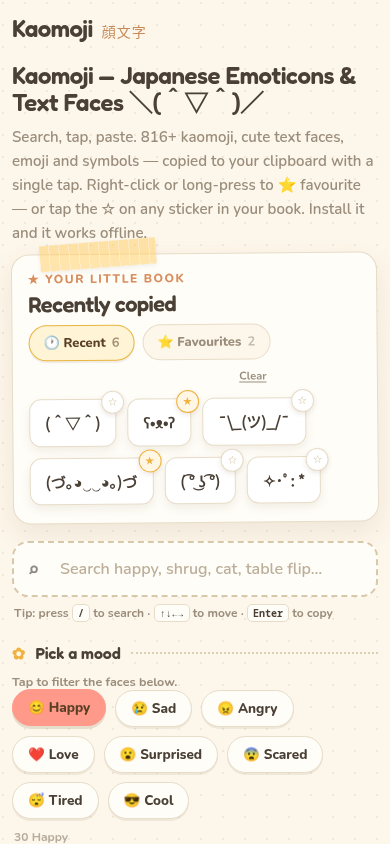
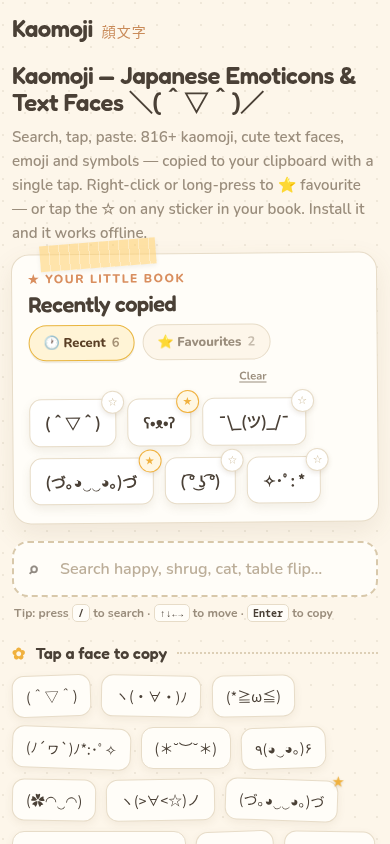
Rework category vs tag IA: categories = grouped browse spine, tags = find layer (#9)
Fundamental fix (research-backed: IA taxonomy-vs-folksonomy; Found Tools / kaomoji.life
patterns) for the confusion between the in-picker category pills and the link clouds.

Roles, now distinct and consistent:
- Categories = the browse spine. Presented as grouped real links — Moods / Things &
  actions / Symbols & emoji (new src/data/categoryGroups.js) — so the 23 read as a map,
  not a blob. Every click changes the URL + page title (fixes the "moods don't navigate"
  complaint) and is crawlable.
- Tags = the find/long-tail layer: search + a "Popular searches" strip + the /t/ pages.
  Not a parallel browse cloud.

Picker is now find + copy + your book only — the category pill row is removed entirely.
That kills the irrelevant 23-pill block that dominated tag/category pages (e.g. /t/bear/),
which now show their faces immediately. Tag pages gain a "Found in categories" cross-link
(tag → the categories its faces live in); "Related" → "Related tags".

Home: book → search → a labelled sample grid → the 3 grouped category sections →
Popular searches. Removed the duplicate "Pick a mood" + "Browse all categories" clouds.

Regenerated the PWA install screenshots. 111 pages build green; JSON-LD, search, the
kaomoji-*-v2 localStorage model and the data layer unchanged.

Changed region(s): [[0.0308, 0.7701, 0.8308, 1.0], [0.8615, 0.9242, 0.8923, 0.955]]

diff --git a/src/components/Picker.jsx b/src/components/Picker.jsx
@@ -6,9 +6,6 @@ const STORAGE_FAVS = "kaomoji-favourites-v2";
 const STORAGE_RECENT = "kaomoji-recent-v2";
 const RECENT_CAP = 30;
 
-// Category sticker colors — rotate by index for active pill fills (matches --c0..--c6).
-const A_COLORS = ["#ff9a8b", "#ffcf6b", "#97d8b0", "#9cc4f0", "#c4a9e8", "#ffb3c8", "#f0b98a"];
-const colorFor = (i) => A_COLORS[i % A_COLORS.length];
 // Deterministic per-cell tilt in [-2°, +2°] — makes the grid feel hand-placed.
 const tilt = (i) => ((i * 53) % 5) - 2;
 
@@ -188,34 +185,20 @@ export default function Picker(props) {
     return getFuse().search(q).slice(0, 120).map((r) => valueToItem.get(r.item.v)).filter(Boolean);
   });
 
-  // Display list: always an array of item-like objects with a `value`.
+  // Display list: search results, else this page's category/tag faces. (The picker no
+  // longer switches categories itself — that's done via real links/pages now.)
   const display = createMemo(() => {
     const sr = searchResults();
     if (sr) return sr;
     const v = view();
-    if (v.kind === "favourites") return favourites().map((value) => valueToItem.get(value) || { value });
-    if (v.kind === "recent") return recent().map((value) => valueToItem.get(value) || { value });
     if (v.kind === "tag") return getTag(v.id)?.items || [];
     return getItemsByCategory(v.id);
   });
 
-  const pick = (kind, id, label) => {
-    setSearch("");
-    setView({ kind, id, label });
-  };
-
   const statusText = createMemo(() => {
     const sr = searchResults();
     if (sr) return `${sr.length} result${sr.length === 1 ? "" : "s"} for “${search().trim()}”`;
-    const v = view();
-    if (v.kind === "favourites") return `${favourites().length} saved`;
-    if (v.kind === "recent") return `${recent().length} recent`;
-    return `${display().length} ${v.label}`;
-  });
-
-  const activeKey = createMemo(() => {
-    const v = view();
-    return `${v.kind}:${v.id}`;
+    return `${display().length} ${view().label}`;
   });
 
   // The hero "book" tray contents follow the hero tab (independent of the grid view).
@@ -241,10 +224,6 @@ export default function Picker(props) {
   const removeRecent = (value) => {
     setRecent((r) => { const next = r.filter((x) => x !== value); writeLS(STORAGE_RECENT, next); return next; });
   };
-
-  // Pills: a curated mood subset when moodIds is given (home), else all categories.
-  const pillCats = () =>
-    props.moodIds ? props.moodIds.map((id) => categories.find((c) => c.id === id)).filter(Boolean) : categories;
 
   return (
     <div class="picker">
@@ -370,55 +349,14 @@ export default function Picker(props) {
       </div>
       <p class="picker-hint">Tip: press <kbd>/</kbd> to search · <kbd>↑↓←→</kbd> to move · <kbd>Enter</kbd> to copy</p>
 
-      <Show when={!search()}>
-        <Show when={props.showBook}>
-          <div class="a-seclabel"><span class="star">✿</span> Pick a mood</div>
-          <p class="picker-subhint">Tap to filter the faces below.</p>
-        </Show>
-        <div class="a-pills" role="tablist" aria-label="Kaomoji categories">
-          <Show when={!props.showBook}>
-            <button
-              class="a-pill"
-              role="tab"
-              classList={{ "is-active": activeKey() === "favourites:favourites" }}
-              style={activeKey() === "favourites:favourites" ? { background: "#fff4d6", "border-color": "var(--gold-line)" } : undefined}
-              aria-selected={activeKey() === "favourites:favourites"}
-              onClick={() => pick("favourites", "favourites", "Favourites")}
-            >
-              ⭐ Favourites <span class="n">{favourites().length}</span>
-            </button>
-            <button
-              class="a-pill"
-              role="tab"
-              classList={{ "is-active": activeKey() === "recent:recent" }}
-              style={activeKey() === "recent:recent" ? { background: "#fff4d6", "border-color": "var(--gold-line)" } : undefined}
-              aria-selected={activeKey() === "recent:recent"}
-              onClick={() => pick("recent", "recent", "Recent")}
-            >
-              🕐 Recent <span class="n">{recent().length}</span>
-            </button>
-          </Show>
-          <For each={pillCats()}>
-            {(c, i) => {
-              const active = () => activeKey() === `category:${c.id}`;
-              return (
-                <button
-                  class="a-pill"
-                  role="tab"
-                  classList={{ "is-active": active() }}
-                  style={active() ? { background: colorFor(i()), "border-color": colorFor(i()) } : undefined}
-                  aria-selected={active()}
-                  onClick={() => pick("category", c.id, c.name)}
-                >
-                  {c.icon} {c.name}
-                </button>
-              );
-            }}
-          </For>
-        </div>
+      {/* On the home page (no specific category/tag), label the default grid; on
+          category/tag pages and during search, show the result count instead. */}
+      <Show
+        when={props.showBook && !search()}
+        fallback={<div class="picker-status">{statusText()}</div>}
+      >
+        <div class="a-seclabel"><span class="star">✿</span> Tap a face to copy</div>
       </Show>
-
-      <div class="picker-status">{statusText()}</div>
 
       <div class="a-grid" ref={gridRef} onKeyDown={onGridKeydown}>
         <Show

diff --git a/src/data/categoryGroups.js b/src/data/categoryGroups.js
@@ -1,0 +1,30 @@
+// Presentation grouping for the 23 categories — the browse spine, split by KIND so the
+// map reads clearly (Moods vs Things & actions vs formats), the way kaomoji.life groups
+// "emotion / action / theme". This is presentation metadata only; the canonical taxonomy
+// is still each glyph's single `category`. Any category not listed here is surfaced under
+// a trailing "More" group by the helper, so the dataset can grow without silently dropping.
+
+export const CATEGORY_GROUPS = [
+  { id: "moods", label: "Moods", ids: ["happy", "sad", "angry", "surprised", "love", "tired", "cool", "scared", "embarrassed", "kawaii"] },
+  { id: "things", label: "Things & actions", ids: ["greetings", "thinking", "animals", "actions", "magic", "music", "fighting", "please", "celebrate"] },
+  { id: "symbols", label: "Symbols & emoji", ids: ["decorated", "dividers", "emoji", "symbols"] },
+];
+
+/**
+ * Resolve the groups to actual category objects (in group order), appending any
+ * categories that aren't assigned to a group under a final "More" group.
+ * @param {Array<{id:string}>} categories
+ * @returns {Array<{ id:string, label:string, categories:object[] }>}
+ */
+export function groupedCategories(categories) {
+  const byId = new Map(categories.map((c) => [c.id, c]));
+  const used = new Set();
+  const groups = CATEGORY_GROUPS.map((g) => {
+    const cats = g.ids.map((id) => byId.get(id)).filter(Boolean);
+    cats.forEach((c) => used.add(c.id));
+    return { id: g.id, label: g.label, categories: cats };
+  });
+  const leftover = categories.filter((c) => !used.has(c.id));
+  if (leftover.length) groups.push({ id: "more", label: "More", categories: leftover });
+  return groups;
+}

diff --git a/src/styles/global.css b/src/styles/global.css
@@ -289,18 +289,8 @@ main { padding: 8px 0 36px; }
 }
 @media (pointer: coarse) { .picker-hint { display: none; } }
 
-/* ---- Category pills (active = category color fill) ------------------------- */
-.a-pills { display: flex; flex-wrap: wrap; gap: 9px; margin: 0 0 4px; }
-.a-pill {
-  font-family: inherit; font-size: 13.5px; font-weight: 800; padding: 8px 15px; border-radius: 22px; cursor: pointer;
-  background: var(--paper-2); color: var(--ink); border: 1.5px solid var(--line);
-  box-shadow: 0 2px 0 var(--sh-10);
-  transition: transform .12s ease, box-shadow .12s ease;
-}
-.a-pill:hover { transform: translateY(-2px); }
-.a-pill .n { opacity: 0.5; font-weight: 700; margin-left: 4px; }
-.a-pill.is-active { color: #5a3f25; box-shadow: 0 3px 0 var(--sh-16); transform: translateY(-1px); }
-.a-pill:focus-visible { outline: 2px solid var(--accent-deep); outline-offset: 2px; }
+/* Muted intro line that frames the category browse sections under the picker. */
+.browse-intro { margin: 22px 0 0; font-size: 13.5px; font-weight: 700; color: var(--ink-dim); }
 
 .picker-status { padding: 6px 2px; font-size: 12px; font-weight: 700; color: var(--ink-dim); opacity: 0.7; }
 
@@ -325,7 +315,6 @@ main { padding: 8px 0 36px; }
   width: 100%; text-align: center; padding: 40px 20px;
   color: var(--ink-dim); font-weight: 700; font-size: 14px; line-height: 1.6;
 }
-.picker-subhint { margin: 8px 0 0; font-size: 12.5px; font-weight: 700; color: var(--ink-dim); }
 
 /* ---- Phones: tighter insets + smaller hero so nothing overflows ------------ */
 @media (max-width: 560px) {
@@ -347,7 +336,7 @@ main { padding: 8px 0 36px; }
 /* ---- Reduced motion: kill the animated lifts (keep static tilts/layout) ---- */
 @media (prefers-reduced-motion: reduce) {
   * { animation-duration: 0.001ms !important; transition-duration: 0.001ms !important; }
-  .a-cell, .a-tray-chip, .a-pill, .a-chip, .a-tab, .chips a, .chrome-btn { transform: none !important; }
+  .a-cell, .a-tray-chip, .a-chip, .a-tab, .chips a, .chrome-btn { transform: none !important; }
   .a-hero { transform: none; }
-  .a-cell:hover, .a-tray-chip:hover, .a-pill:hover, .a-chip:hover, .a-tab:hover, .chips a:hover, .chrome-btn:hover { transform: none !important; }
+  .a-cell:hover, .a-tray-chip:hover, .a-chip:hover, .a-tab:hover, .chips a:hover, .chrome-btn:hover { transform: none !important; }
 }